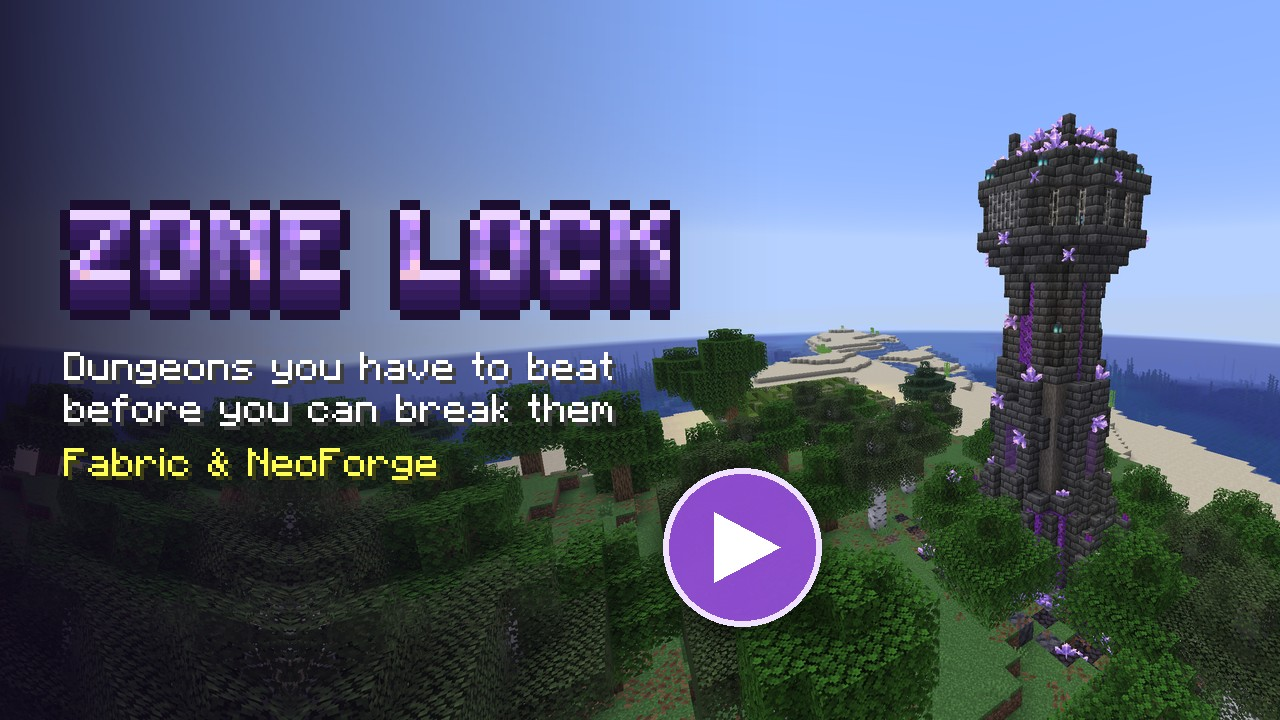
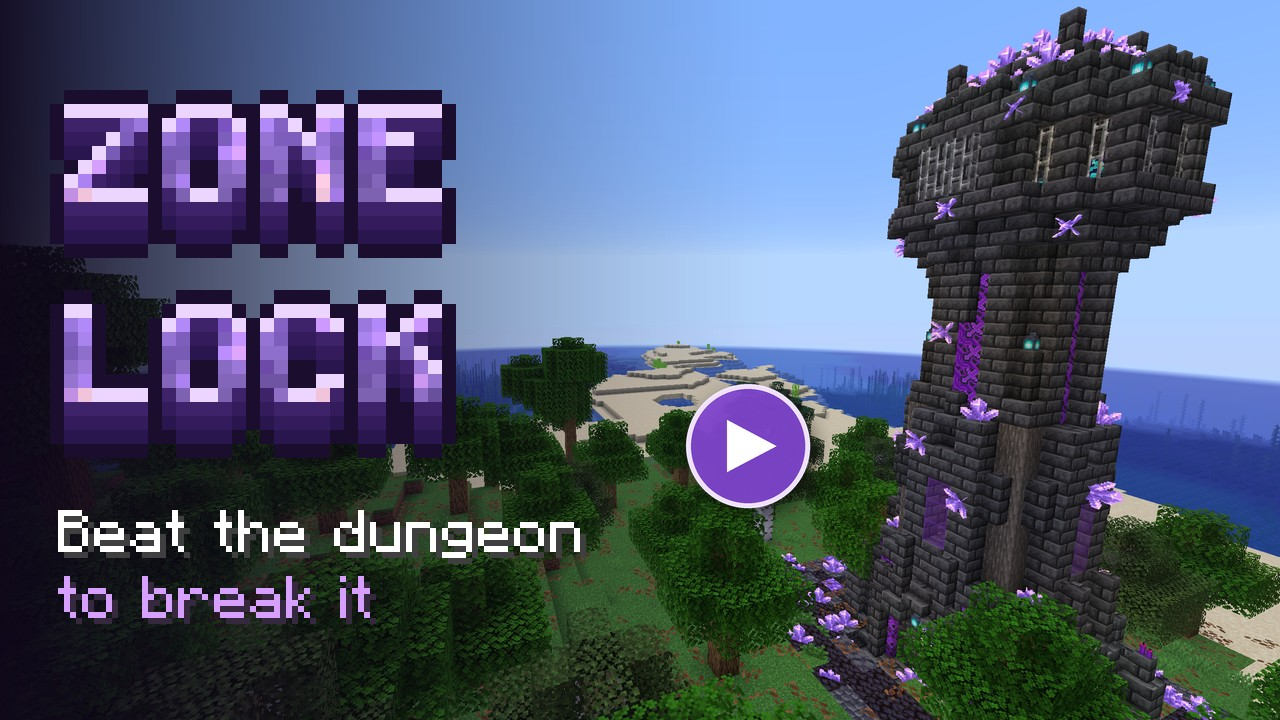
README: short, for players
Cut it down to what a player needs: what it does, how it works in three steps,
the seals, and where to download. The new thumbnail is the trailer image.

diff --git a/README.md b/README.md
@@ -6,211 +6,48 @@
 
 <p align="center">
   <b>Dungeons you have to beat before you can break them.</b><br>
-  A Minecraft mod for Fabric and NeoForge (26.3)
+  Minecraft 26.3 · Fabric and NeoForge
 </p>
 
 <p align="center">
   <a href="https://modrinth.com/mod/zonelock"><img src="https://img.shields.io/badge/Modrinth-Download-00AF5C?logo=modrinth&logoColor=white" alt="Download on Modrinth"></a>
   <a href="https://www.curseforge.com/minecraft/mc-mods/zonelock"><img src="https://img.shields.io/badge/CurseForge-Download-F16436?logo=curseforge&logoColor=white" alt="Download on CurseForge"></a>
   <a href="https://youtu.be/W94lSa-9igw"><img src="https://img.shields.io/badge/YouTube-Trailer-FF0000?logo=youtube&logoColor=white" alt="Watch the trailer"></a>
-  <br>
-  <img src="https://img.shields.io/badge/Minecraft-26.3-62B47A" alt="Minecraft 26.3">
-  <img src="https://img.shields.io/badge/Loaders-Fabric%20%7C%20NeoForge-9B5DE5" alt="Fabric and NeoForge">
-  <a href="LICENSE"><img src="https://img.shields.io/badge/License-MIT-blue" alt="MIT license"></a>
 </p>
 
 <p align="center">
-  <a href="https://youtu.be/W94lSa-9igw"><img src="art/publish/images/trailer.jpg" width="720" alt="Watch the Zone Lock trailer on YouTube"></a>
+  <a href="https://youtu.be/W94lSa-9igw"><img src="art/publish/images/trailer.jpg" width="720" alt="Watch the Zone Lock trailer"></a>
 </p>
 
-Seal an area with an **Amethyst Core** and nothing inside it can be broken, built or skipped until the challenge
-is beaten: no digging straight to the end, no towering over the walls, no ender pearls past the puzzle. Build a
-dungeon around a core and players have to actually play through it. Reach the core, switch it off, and the place
-is yours. Or find the **Amethyst Tower** in the wild.
-
-- Everything is craftable in survival, and works in multiplayer.
-- Vanilla-friendly: puzzles are built with vanilla blocks and redstone; the mod only keeps them from being skipped.
-- No chat spam: everything the mod tells you happens in the world.
-
-## Contents
-
-- [Download](#download)
-- [How it works](#how-it-works)
-- [Seals and puzzles](#seals-and-puzzles)
-- [What a sealed zone stops](#what-a-sealed-zone-stops)
-- [Feedback in the game](#feedback-in-the-game)
-- [Survival progression](#survival-progression)
-- [The Amethyst Tower](#the-amethyst-tower)
-- [For map makers](#for-map-makers)
-- [Building from source](#building-from-source)
-
-## Download
-
-| | |
-|---|---|
-| **Modrinth** | [modrinth.com/mod/zonelock](https://modrinth.com/mod/zonelock) |
-| **CurseForge** | [curseforge.com/minecraft/mc-mods/zonelock](https://www.curseforge.com/minecraft/mc-mods/zonelock) |
-| **Trailer** | [youtu.be/W94lSa-9igw](https://youtu.be/W94lSa-9igw) |
-| **YouTube channel** | [@zonelockmod](https://www.youtube.com/@zonelockmod) |
-
-Requirements:
-
-- **Fabric**: Fabric Loader and [Fabric API](https://modrinth.com/mod/fabric-api).
-  [Mod Menu](https://modrinth.com/mod/modmenu) is optional, for the settings screen.
-- **NeoForge**: nothing else.
-- Install it on the server **and** on every client.
+Put an **Amethyst Core** in your dungeon and nothing around it can be broken or built until someone beats it. No
+digging to the end, no pillaring over walls, no ender pearls past the puzzle: players have to actually play through it.
 
 ## How it works
 
-1. **Place a core.** Craft an Amethyst Core and place it in your dungeon. Right-click it to open its screen: its
-   name, its rules and its focus. Cores belong to nobody: anyone can set up a switched-off core.
-2. **Shape its zone** with the **Resonance Wand**: point at a wall of the zone; each click pushes it a block away,
-   sneak + click pulls it back (from inside that grows the zone, from outside it shrinks it). Zones never overlap:
-   a wall stops against another zone, and a core can't be placed inside one.
-3. **Seal it** by placing an **amethyst shard** on top. The crystal rises and the zone locks **as soon as everyone
-   has left it** (and nobody near it holds a wand), so you can never shut yourself in while setting up your own
-   dungeon. Until then nothing changes: you can still edit it, the seals don't react, and every door wired to them
-   stays open. Sneak + use on the core takes the shard back.
-4. **Beat it.** Whoever wants in has to put out every seal of the zone and then switch the core off. The crystal
-   shatters and the zone is free again.
+1. **Place a core** and shape its zone with the **Resonance Wand**.
+2. **Seal it** with an amethyst shard. The zone locks once everyone has left it.
+3. **Beat it**: put out every seal inside, then switch the core off. The zone is free again.
 
 <p align="center">
-  <img src="art/publish/images/core_screen.jpg" width="720" alt="The core's screen: name, rules and focus">
-  <br><sub>The core's screen: the zone's name, what it takes to beat it, and the focus that sets its size.</sub>
+  <img src="art/publish/images/sanctum.jpg" width="720" alt="A core with two seals">
 </p>
 
-**An armed core is a challenge for everyone, whoever armed it included**: nothing about it or its seals can be
-changed until it is beaten (creative map makers excepted). A beaten core keeps its configuration and is anyone's to
-set up again; placing a shard on it restarts the challenge, and every seal burns again.
-
-A bed or respawn anchor inside a sealed zone doesn't bring you back there: you respawn at the world spawn, so dying
-is always a way out of a dungeon and never a way back into a room you were stuck in.
-
-## Seals and puzzles
-
-| Block | What it does |
-|---|---|
-| **Amethyst Core** | Put out every seal inside its zone, then switch the core off. With no seals, reaching it is enough. Right-clicking a locked core sends a pulse of energy along the corridors to each seal that still burns. |
-| **Redstone Core** | Put out its seals (if any), then power the core. The output of any redstone puzzle you can build. |
-| **Amethyst Seal** | Goes out when touched. Hide it at the top of a parkour, behind a maze, at the end of a corridor. |
-| **Redstone Seal** | Goes out with a redstone signal. |
-| **Resonance Wand** | Shapes the zone of a switched-off core, and shows the walls of every zone while you hold it. |
-
-**Seals and cores give a redstone signal** (strength 15, like a redstone block) whenever they aren't holding anything
-shut: a seal once it is put out, a core once it is switched off, and both while the zone isn't armed. Wire a door to a
-seal and it stands open while you build, shuts when the core is armed, and opens when a challenger puts that seal out:
-one room leads to the next. Wire the treasure room to the core and it opens when the dungeon is beaten.
-
-<p align="center">
-  <img src="art/publish/images/sanctum.jpg" width="720" alt="A sanctum with its core and two seals">
-  <br><sub>A sanctum: the core in the middle, an Amethyst Seal on the left and a Redstone Seal on the right.</sub>
-</p>
-
-<p align="center">
-  <img src="art/publish/images/lava_forge.jpg" width="720" alt="A lava chasm puzzle in front of a core">
-  <br><sub>A puzzle that can't be skipped: no block bridges the lava, only the button raises the path.</sub>
-</p>
-
-## What a sealed zone stops
-
-Every rule can be turned off per core.
-
-- Breaking and placing blocks, buckets, boats (doors, buttons, levers and chests always work)
-- Explosions, pistons pushing across the border, fluids flowing in or out, fire spreading
-- Mob griefing: endermen, withers, ravagers, trampled crops
-- Ender pearls and chorus fruit landing inside, elytra gliding and riptide launches inside
-- Breaking paintings, item frames and armor stands
-- Tools changing blocks: stripping, tilling, bone meal, flint and steel
-
-Creative players bypass everything, so builders can keep working.
-
-## Feedback in the game
-
-- The border is invisible until you hold a **Resonance Wand**: then its walls show as small amethyst runes, sliding
-  along while the zone is armed, still and dimmer while it is off (the wall the wand points at lights up).
-- Without the wand, coming close to a sealed wall shows a patch of it around you, fading out. It can be turned off
-  in the mod's settings (Mod Menu on Fabric, the mods list on NeoForge).
-- A block that refuses to change **ripples** where you hit it, over its real shape: the solid surface of blocks, the
-  model of things you walk through (wheat, flowers, rails, torches), the plate of an item frame. No text pops up.
-- Inside a zone, its quest card shows in the top-left corner: the zone's name and what's left
-  ("Put out the seals 2/4").
-- The core's floating crystal spins while armed.
+- **Amethyst Seal**: goes out when you touch it. Hide it at the end of a parkour or a maze.
+- **Redstone Seal**: goes out with a redstone signal. Any redstone puzzle works.
+- Seals and cores give a redstone signal when they open, so a seal can open the door to the next room.
 
 <p align="center">
   <img src="art/publish/images/wand_walls.jpg" width="720" alt="The wand showing the walls of a zone">
-  <br><sub>The Resonance Wand shows the walls of every zone around you.</sub>
+  <br><sub>Hold the wand to see every locked zone around you.</sub>
 </p>
 
-## Survival progression
+## Good to know
 
-A core reaches 4 blocks per side. Put a **focus block** in its screen (like paying a beacon) to grow it:
+- Everything is craftable in survival and works in multiplayer.
+- Doors, buttons, levers and chests still work inside a zone. Creative players can edit anything.
+- Find the **Amethyst Tower** in dark forests and old-growth taigas: a ready-made dungeon with a core at the top.
+- Install it on the server and on every client. On Fabric you also need
+  [Fabric API](https://modrinth.com/mod/fabric-api).
 
-| Focus | Blocks per side |
-|---|---|
-| none | 4 |
-| iron or copper | 8 |
-| gold or lapis | 16 |
-| emerald or amethyst | 32 |
-| diamond | 64 |
-| netherite | 128 |
-
-That is the same for everyone, creative included. A dungeon's core comes with the zone its dungeon needs, but once
-beaten it is an ordinary core: armed again, the zone shrinks to what its focus allows.
-
-<p align="center">
-  <img src="art/publish/images/recipes.jpg" width="720" alt="The recipes of the cores, seals and wand">
-  <br><sub>Recipes for the cores, the seals and the Resonance Wand.</sub>
-</p>
-
-## The Amethyst Tower
-
-A rare, hand-built tower found in dark forests, pale gardens and old-growth taigas, with a library puzzle and a
-parkour shaft. Its core waits at the top, and the amethyst eats the ground around it.
-
-It comes in a built-in data pack, **Zone Lock: Dungeons**, enabled by default: turn it off under
-**Create World > Data Packs** for worlds without it.
-
-## For map makers
-
-- In creative you can edit any core. **Map lock** stops everyone but creative operators from touching it: while it
-  is armed players only get the challenge, and once it is off it doesn't react to them at all.
-- `/zonelock list | here | lock | unlock` for operators.
-- Block tags `#zonelock:breakable_in_zones` and `#zonelock:placeable_in_zones` mark blocks that players may break or
-  place inside zones (cobwebs to cut, blocks for a puzzle...). `#zonelock:focus/tier_1..5` set the focus blocks.
-- Core block entity data, for structure templates:
-
-  ```
-  {config:{name:"...",extents:{up:8,down:2,north:8,south:8,east:8,west:8},rules:1023,seals:1b,redstone:0b,config_locked:1b},armed:1b}
-  ```
-
-## Building from source
-
-Requires **JDK 25** (Gradle itself must run on it).
-
-```
-./gradlew build                      # both jars in fabric/build/libs and neoforge/build/libs
-./gradlew :fabric:runClient          # or :neoforge:runClient
-./gradlew :neoforge:runGameTestServer :fabric:runServerSmokeTest   # boots servers, checks every mixin applies
-./gradlew :fabric:runClientGameTest  # plays scripted scenarios in the real client and takes screenshots
-```
-
-Project layout ([MultiLoader template](https://github.com/jaredlll08/MultiLoader-Template)): almost everything lives
-in `common/`, compiled against vanilla, with the protection done through Mixins shared by both loaders. `fabric/` and
-`neoforge/` only hold the loader glue (registration, events, networking, renderers).
-
-| Folder | What's in it |
-|---|---|
-| `common/` | Blocks, zones, rules, rendering and the Mixins |
-| `fabric/`, `neoforge/` | Loader glue; `fabric/src/gametest` holds the client game tests and the trailer recorder |
-| `art/structures/` | The Amethyst Tower generator |
-| `art/trailer/` | The trailer's sets (`sets.py`) and its composer (`compose.py`) |
-| `art/logo/`, `art/publish/` | Logo, banner, store texts and screenshots |
-
-Releases: push a `v*` tag; GitHub Actions builds and publishes to Modrinth, CurseForge and GitHub Releases (set
-`modrinth_id` / `curseforge_id` in `gradle.properties` and the `MODRINTH_TOKEN` / `CURSEFORGE_TOKEN` secrets).
-
-Changes between versions are in [CHANGELOG.md](CHANGELOG.md). Bugs and ideas: [GitHub Issues](https://github.com/CarlesRojas/zonelock/issues).
-
-## License
-
-[MIT](LICENSE). Made by Team Pinya.
+[Changelog](CHANGELOG.md) · [Report a bug](https://github.com/CarlesRojas/zonelock/issues) · MIT license · Made by
+Team Pinya
